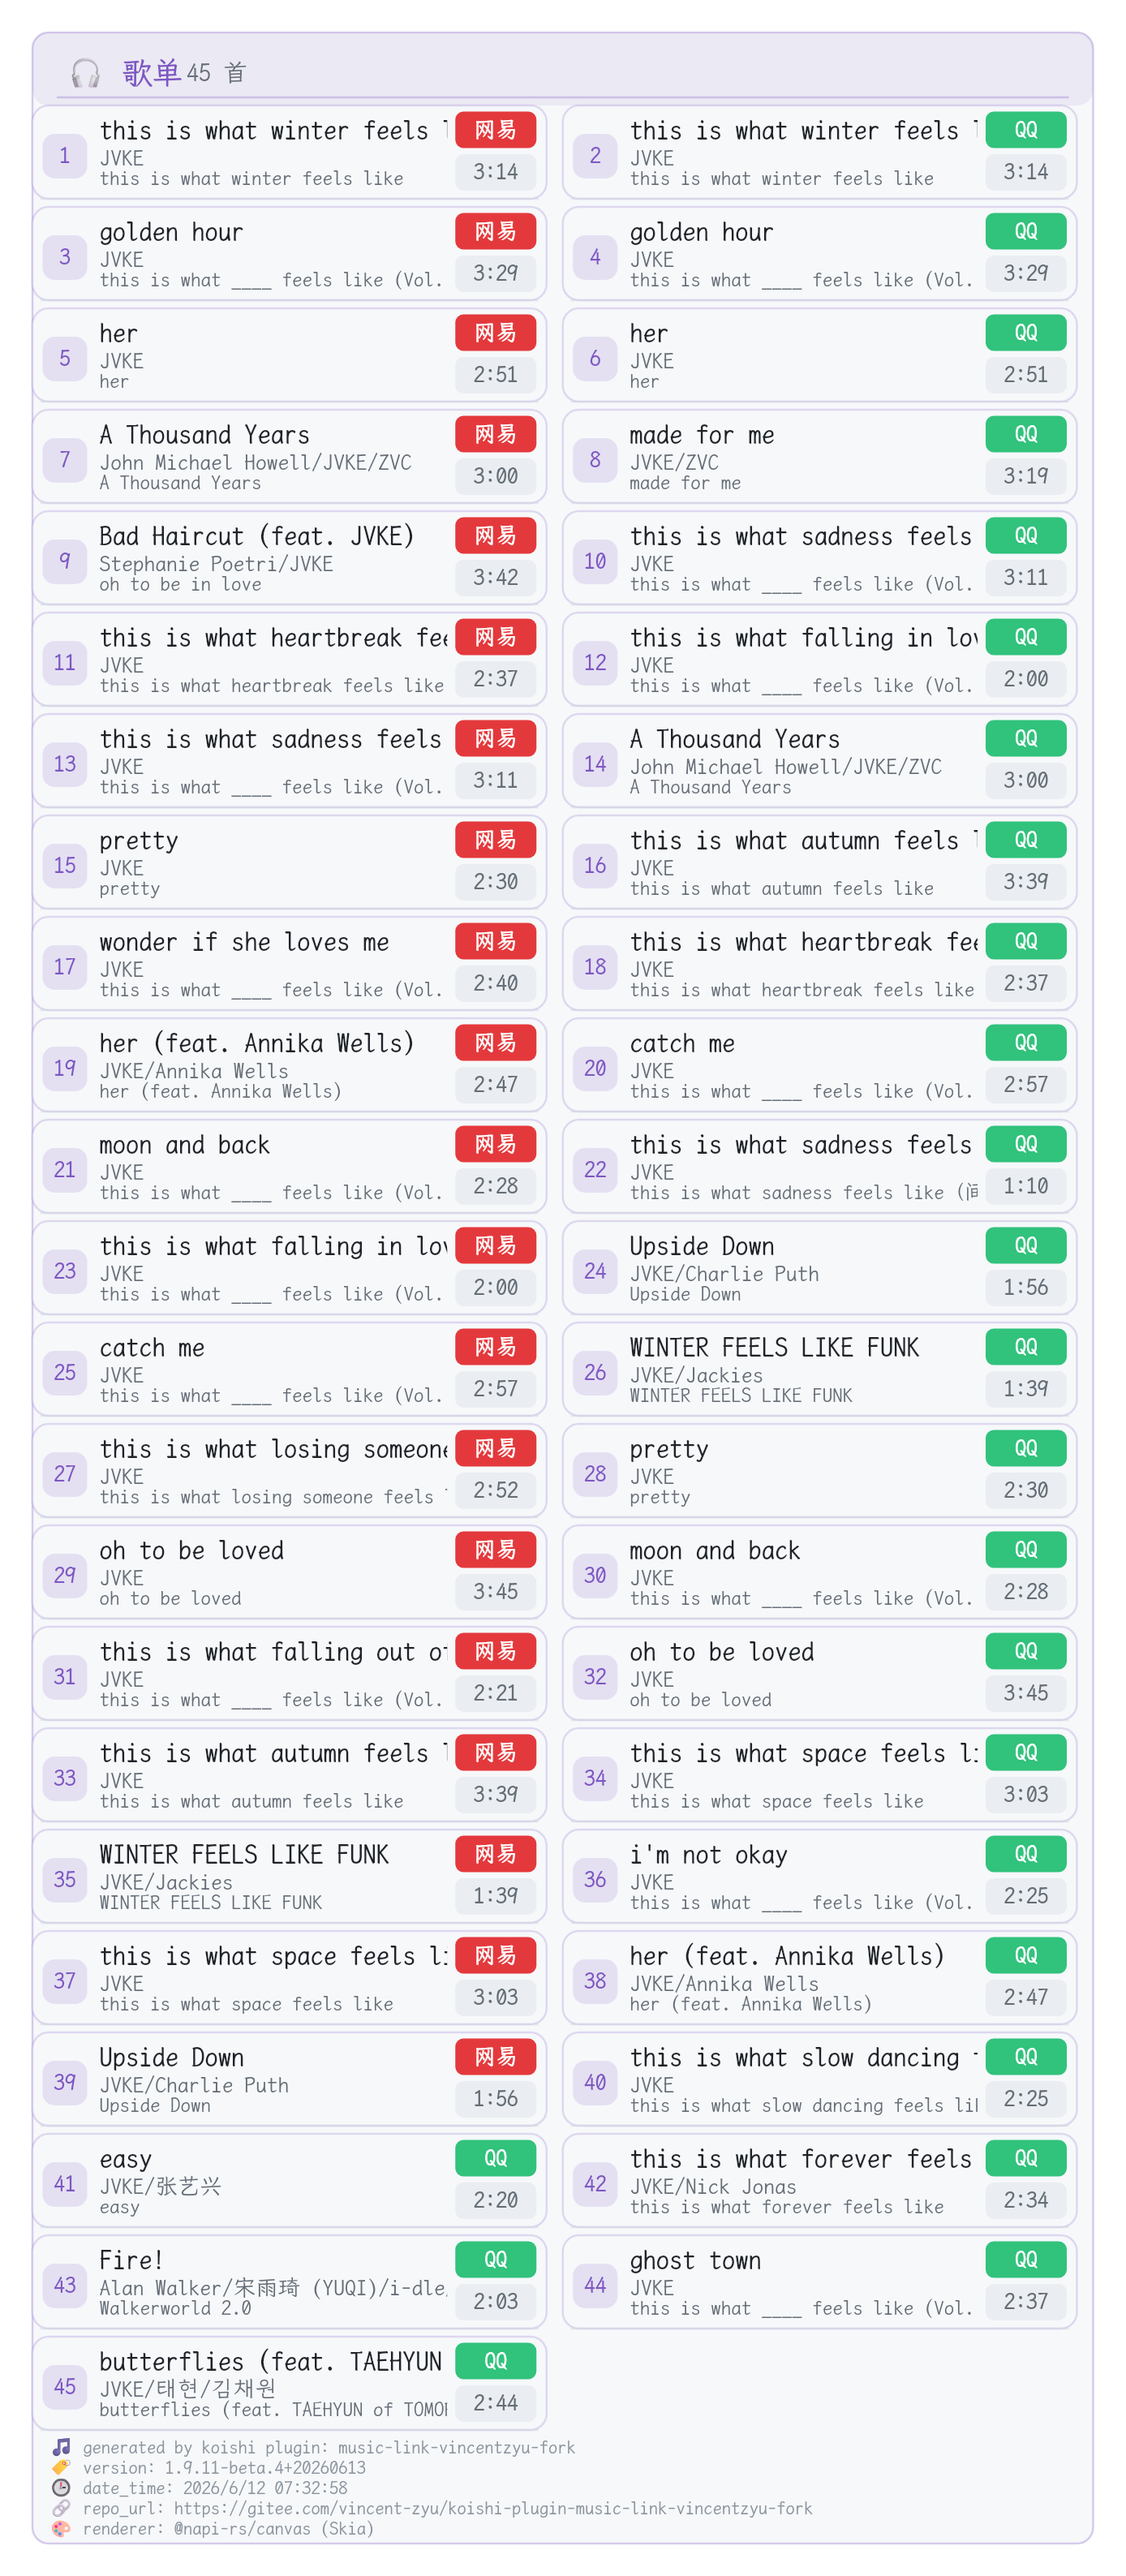
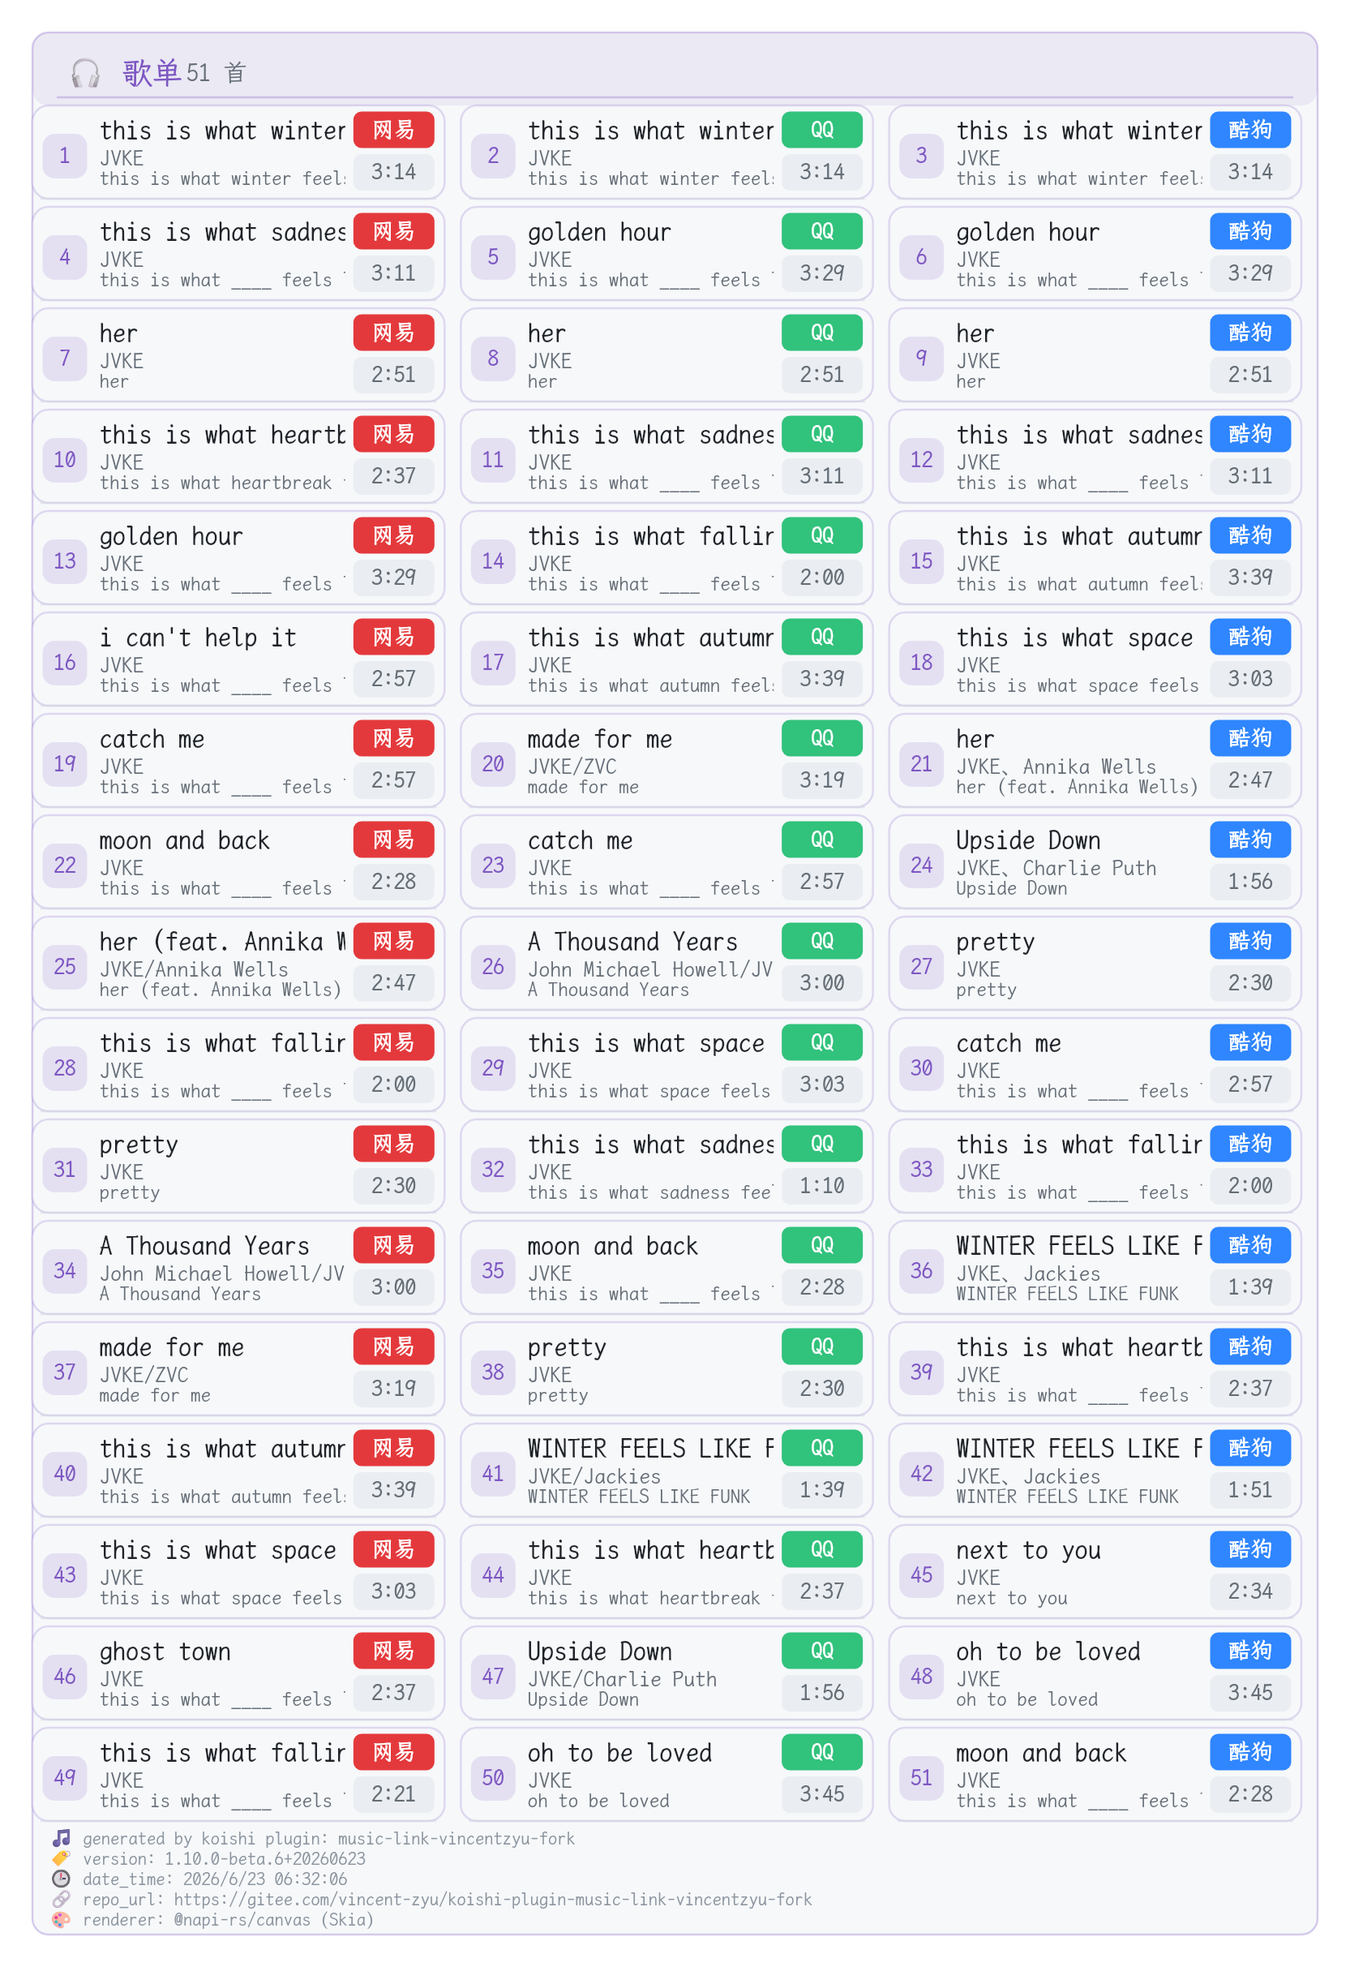
chore: v1.10.0-beta.6+20260623 — 启用 markdown_style 默认渲染 + 更新字体来源 badge - 将 markdown_style 渲染模式默认值改为 true，默认启用更多渲染方式 - 更新 NOTICE.md 中字体来源 badge 样式（统一为 Font Source） - 更新歌单预览图（canvas + svg） - 版本号 bump 至 1.10.0-beta.6+20260623 Co-authored-by: Codex <codex@openai.com> Co-authored-by: shangxue-net <shangx

Changed region(s): [[0.0, 0.0, 0.9914, 0.9897], [0.8365, 0.8969, 0.8674, 0.9278]]

diff --git a/lib/config.js b/lib/config.js
@@ -185,7 +185,7 @@ const Config = Schema.intersect([
                 { mode: 'svg', enabled: false },
                 { mode: 'canvas', enabled: true },
                 { mode: 'markdown_table', enabled: false },
-                { mode: 'markdown_style', enabled: false },
+                { mode: 'markdown_style', enabled: true },
             ])
             .description('🖼 消息渲染模式设置（可添加多个，按顺序执行）<br>✨ (非qq官机平台)配合"严格顺序模式"可实现：文字 → SVG → Puppeteer 的发送顺序<br>⚠ 如果启用了多个相同模式，只有第一个会生效'),
         strictOrderMode: Schema.boolean().default(true).description('📋 是否严格按照上表顺序串行执行（默认 true 为串行渲染）<br>⚠ <b>强烈建议开启</b>：由于 Node.js单线程特性，并行渲染会导致 CPU争抢，使所有模式都变慢<br>✅ 串行模式：各渲染器独占CPU，互不干扰，总耗时更短<br>🐢 并行模式：多个渲染器同时竞争单线程CPU，互相阻塞，性能会有下降'),

diff --git a/NOTICE.md b/NOTICE.md
@@ -14,7 +14,7 @@ This plugin uses the following open-source fonts for image rendering:
 
 ### 1. Source Han Serif (思源宋体)
 
-[![Source Han Serif](https://img.shields.io/badge/Source%20Han%20Serif-Adobe%20%26%20Google-2D9CDB?style=flat-square)](https://github.com/adobe-fonts/source-han-serif)
+[![Source Han Serif](https://img.shields.io/badge/Source%20Han%20Serif-Font%20Source-181717?style=flat-square)](https://github.com/adobe-fonts/source-han-serif)
 
 - Source: <https://github.com/adobe-fonts/source-han-serif>
 - License: `SIL Open Font License 1.1`
@@ -23,7 +23,7 @@ This plugin uses the following open-source fonts for image rendering:
 
 ### 2. LXGW WenKai (霞鹜文楷)
 
-[![LXGW WenKai](https://img.shields.io/badge/LXGW%20WenKai-LXGW-5C7CFA?style=flat-square)](https://github.com/lxgw/LxgwWenKai)
+[![LXGW WenKai](https://img.shields.io/badge/LXGW%20WenKai-Font%20Source-181717?style=flat-square)](https://github.com/lxgw/LxgwWenKai)
 
 - Source: <https://github.com/lxgw/LxgwWenKai>
 - License: `SIL Open Font License 1.1`
@@ -32,7 +32,7 @@ This plugin uses the following open-source fonts for image rendering:
 
 ### 3. Noto Color Emoji
 
-[![Noto Color Emoji](https://img.shields.io/badge/Noto%20Color%20Emoji-Google-34A853?style=flat-square)](https://fonts.google.com/noto/specimen/Noto+Color+Emoji)
+[![Noto Color Emoji](https://img.shields.io/badge/Noto%20Color%20Emoji-Font%20Source-181717?style=flat-square)](https://fonts.google.com/noto/specimen/Noto+Color+Emoji)
 
 - Source: <https://fonts.google.com/noto/specimen/Noto+Color+Emoji>
 - License: `SIL Open Font License 1.1`
@@ -50,7 +50,7 @@ modified, and distributed in this project under their respective terms.
 
 ### 1. 思源宋体（Source Han Serif SC）
 
-[![Source Han Serif](https://img.shields.io/badge/思源宋体-Adobe%20%26%20Google-2D9CDB?style=flat-square)](https://github.com/adobe-fonts/source-han-serif)
+[![Source Han Serif](https://img.shields.io/badge/思源宋体-字体来源-181717?style=flat-square)](https://github.com/adobe-fonts/source-han-serif)
 
 - 来源：<https://github.com/adobe-fonts/source-han-serif>
 - 许可证：`SIL Open Font License 1.1`
@@ -59,7 +59,7 @@ modified, and distributed in this project under their respective terms.
 
 ### 2. 霞鹜文楷（LXGW WenKai）
 
-[![LXGW WenKai](https://img.shields.io/badge/霞鹜文楷-LXGW-5C7CFA?style=flat-square)](https://github.com/lxgw/LxgwWenKai)
+[![LXGW WenKai](https://img.shields.io/badge/霞鹜文楷-字体来源-181717?style=flat-square)](https://github.com/lxgw/LxgwWenKai)
 
 - 来源：<https://github.com/lxgw/LxgwWenKai>
 - 许可证：`SIL Open Font License 1.1`
@@ -68,7 +68,7 @@ modified, and distributed in this project under their respective terms.
 
 ### 3. Noto Color Emoji
 
-[![Noto Color Emoji](https://img.shields.io/badge/Noto%20Color%20Emoji-Google-34A853?style=flat-square)](https://fonts.google.com/noto/specimen/Noto+Color+Emoji)
+[![Noto Color Emoji](https://img.shields.io/badge/Noto%20Color%20Emoji-字体来源-181717?style=flat-square)](https://fonts.google.com/noto/specimen/Noto+Color+Emoji)
 
 - 来源：<https://fonts.google.com/noto/specimen/Noto+Color+Emoji>
 - 许可证：`SIL Open Font License 1.1`
